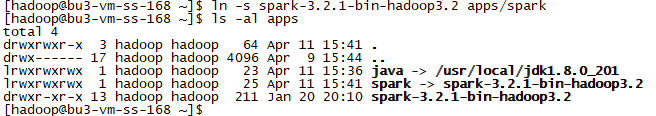
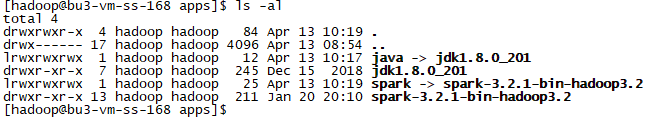
Spark Standalone 环境搭建

diff --git a/Spark基础入门/Labs/实验2 Spark Standalone模式搭建.md b/Spark基础入门/Labs/实验2 Spark Standalone模式搭建.md
@@ -8,15 +8,27 @@
 
 开始实验之前，请确保服务器上安装了Docker环境，创建了docker用户。
 
+## 环境规划
+
+本次实验采用3个Docker容器进行集群搭建，并且需要保证3个容器在同一个网络内。
+
+| 容器名称 | 容器IP |
+| -------- | ------ |
+| node1    |        |
+| node2    |        |
+| node3    |        |
+
 ## 任务1 Docker 镜像制作
 
 ### 步骤1 制作 Dockerfile 文件
+
+**以下步骤需要在宿主机上使用 `docker` 用户进行操作。**
 
 环境说明：
 
 * 使用centos作为底层系统
 * 需要配置节点之间的免密登录，所以需要安装ssh服务
-* 为了减小镜像的体积，镜像以及启动的容器内并不直接安装相关软件，而是将相关软件安装在宿主机，并将宿主机的安装路径挂载到容器，所以要求 `容器内的路径与宿主机的路径完全保持一致` 。因为宿主机的Spark使用 `hadoop` 用户安装在 `/home/hadoop/apps` 路径下，所以，Docker容器同样使用 `hadoop` 用户，并创建挂载点 `/home/hadoop/apps` 用于挂载宿主机的路径。
+* 为了减小镜像的体积，镜像以及启动的容器内并不直接安装相关软件，而是将相关软件安装在宿主机，并将宿主机的安装路径挂载到容器，而且通过挂载的方式，我们修改配置文件只需要在宿主机上修改就可以了，无需手动同步到所有节点，所以要求 `容器内的路径与宿主机的路径完全保持一致` 。因为宿主机的Spark使用 `hadoop` 用户安装在 `/home/hadoop/apps` 路径下，所以，Docker容器同样使用 `hadoop` 用户，并创建挂载点 `/home/hadoop/apps` 用于挂载宿主机的路径。
 * 容器内的部署用户使用 `hadoop` 用户，并配置节点间的免密登录。
 * 为用户配置好相关的环境变量
 * 创建挂载点 `~/apps` 用于挂载安装程序，创建预留挂载点 `~/logs` 用于存放日志文件、`~/works` 用于程序运行的工作目录、`~/softs` 用于存放一些需要提交到容器内部进行安装、运行的程序。
@@ -85,6 +97,8 @@ docker images | grep wux_labs
 
 ## 任务2 宿主机环境配置
 
+**以下步骤需要在宿主机上使用 `hadoop` 用户进行操作。**
+
 由于环境采用的是挂载宿主机文件的方式，所以宿主机的文件结构需要与容器内的结构匹配。
 
 我们首先看看宿主机当前的 `/home/hadoop/apps` 路径下的内容。
@@ -99,7 +113,7 @@ ls -al apps
 
 
 
-### 步骤1 创建java链接
+### 步骤1 创建 java 链接
 
 由于Docker镜像指定了
 
@@ -107,15 +121,16 @@ ls -al apps
 export JAVA_HOME=/home/hadoop/apps/java
 ```
 
-所以需要在宿主机的 `/home/hadoop/apps` 目录下创建 `java` 目录，并将 Java 8+ 安装在该目录下。由于宿主机本身就安装了 Java 8+，所以我们不需要重复安装，通过以下命令创建一个软链接指向Java安装路径即可。
+所以需要在宿主机的 `/home/hadoop/apps` 目录下创建 `java` 目录，并将 Java 8+ 安装在该目录下。这里我们不使用宿主机本身的 Java 环境，而是单独安装一个，因为挂载到容器的时候需要保证安装路径在容器内也存在，通过以下命令创建一个软链接指向Java安装路径即可。
 
 ```
+tar xzf softs/
 ln -s /usr/local/jdk1.8.0_201 apps/java
 ```
 
 ![image-20220411233723751](images/image-20220411233723751.png)
 
-### 步骤2 创建spark链接
+### 步骤2 创建 spark 链接
 
 由于Docker镜像指定了
 
@@ -126,10 +141,212 @@ export SPARK_HOME=/home/hadoop/apps/spark
 所以需要在宿主机的 `/home/hadoop/apps` 目录下创建 `spark` 目录，并将Spark程序安装在该目录下。同样，由于宿主机已经安装好了Spark，所以我们不需要重复安装，通过以下命令创建一个软链接指向Spark安装路径即可。
 
 ```
-ln -s /usr/local/jdk1.8.0_201 apps/java
+ln -s apps/spark-3.2.1-bin-hadoop3.2 apps/spark
 ```
 
 ![image-20220411234157327](images/image-20220411234157327.png)
 
-### 步骤3 配置Standalone配置文件
+### 步骤3 配置宿主机环境变量
 
+创建好软链接之后，在宿主机上也配置跟Docker容器相同的环境变量，这里配置到 `.bashrc` 文件中
+
+```
+export JAVA_HOME=/home/hadoop/apps/java
+export SPARK_HOME=/home/hadoop/apps/spark
+export PATH=$JAVA_HOME/bin:$SPARK_HOME/bin:$SPARK_HOME/sbin:$PATH
+```
+
+![image-20220413165515837](images/image-20220413165515837.png)
+
+配置好环境变量后，最好是重新登录一下，让环境变量生效。
+
+### 步骤4 配置 Standalone 配置文件
+
+切换到Spark的配置目录conf下。
+
+```
+cd /home/hadoop/apps/spark/conf
+
+ls -al
+```
+
+![image-20220413170636567](images/image-20220413170636567.png)
+
+#### 配置 workers
+
+workers这个文件就是指示了当前Spark Standalone环境下，有哪些worker，这里我们将规划的3个Docker容器都添加进去。
+
+```
+echo "node1" > workers
+echo "node2" >> workers
+echo "node3" >> workers
+
+ls -al
+
+cat workers
+```
+
+![image-20220413170759522](images/image-20220413170759522.png)
+
+#### 配置 spark-env.sh
+
+可以通过复制模板文件的方式
+
+```
+cp spark-env.sh.template spark-env.sh
+```
+
+也可以不复制模板文件而直接编辑
+
+````
+vi spark-env.sh
+````
+
+将下面的内容追加到文件末尾（以下是比较简单的基本配置，如果需要配置其他信息，酌情追加配置即可）
+
+```
+# 设置 Java 安装目录
+JAVA_HOME=/home/hadoop/apps/java
+
+# 指定 Spark Master 的 IP 和提交任务的通信端口
+# 告知 Spark Master运行在哪个机器上
+SPARK_MASTER_HOST=node1
+# 告知 Spark Master 的通讯端口
+SPARK_MASTER_PORT=7077
+# 告知 Spark Master 的 WebUI 端口
+SPARK_MASTER_WEBUI_PORT=8080
+
+# 指定 Spark 的日志存放路径
+SPARK_LOG_DIR=/home/hadoop/logs/spark
+# 指定 Spark 的工作路径
+SPARK_WORKER_DIR=/home/hadoop/works/spark
+```
+
+![image-20220413172104717](images/image-20220413172104717.png)
+
+## 任务3 启动 Spark 集群
+
+**以下步骤需要在宿主机上使用 `docker` 用户进行操作。**
+
+配置好以上内容，就可以准备启动集群了。
+
+### 步骤1 创建 docker-compose 文件
+
+我们通过 docker-compose 来管理容器，所以先创建一个 docker-compose 文件`SparkStandalone.yml`。
+
+```
+version: '3.5'
+
+services:
+  node1:
+    image: wux_labs/spark:3.2.1
+    container_name: node1
+    restart: always
+    volumes:
+      - /home/hadoop/apps:/home/hadoop/apps # 磁盘挂载是只读的
+      - node1_logs:/home/hadoop/logs        # 由于要写日志，所以需要用数据卷，可写
+      - node1_works:/home/hadoop/works      # 工作目录也需要可写，所以使用数据卷
+    ports:
+      - 7077:7077
+      - 8080:8080
+    networks:
+      hadoop_networks_24:
+        ipv4_address: 172.24.0.101
+
+  node2:
+    image: wux_labs/spark:3.2.1
+    container_name: node2
+    restart: always
+    volumes:
+      - /home/hadoop/apps:/home/hadoop/apps
+      - node2_logs:/home/hadoop/logs
+      - node2_works:/home/hadoop/works
+    networks:
+      hadoop_networks_24:
+        ipv4_address: 172.24.0.102
+
+  node3:
+    image: wux_labs/spark:3.2.1
+    container_name: node3
+    restart: always
+    volumes:
+      - /home/hadoop/apps:/home/hadoop/apps
+      - node3_logs:/home/hadoop/logs
+      - node3_works:/home/hadoop/works
+    networks:
+      hadoop_networks_24:
+        ipv4_address: 172.24.0.103
+
+networks:
+  hadoop_networks_24:
+    driver: bridge
+    ipam:
+      config:
+        - subnet: 172.24.0.0/24
+
+volumes:
+  node1_logs:
+    driver: local
+  node1_works:
+    driver: local
+  node2_logs:
+    driver: local
+  node2_works:
+    driver: local
+  node3_logs:
+    driver: local
+  node3_works:
+    driver: local
+```
+
+### 步骤2 启动容器
+
+```
+docker-compose -f SparkStandalone.yml up -d
+
+docker ps
+```
+
+![image-20220413180306755](images/image-20220413180306755.png)
+
+这样我们就启动了3个Docker容器，但是到目前为止，Spark集群还未启动。
+
+### 步骤3 启动 Spark 集群
+
+Docker容器启动成功，此时我们需要使用 `hadoop` 用户进入到 node1 容器的内部，正式启动 Spark 集群。
+
+```
+docker exec -it -u hadoop node1 /bin/bash
+```
+
+![image-20220413180616521](images/image-20220413180616521.png)
+
+然后执行启动命令。
+
+```
+start-all.sh
+```
+
+![image-20220413183055498](images/image-20220413183055498.png)
+
+这样我们就完成了Spark集群的启动。
+
+来看看现在的进程。
+
+```
+jps
+```
+
+![image-20220413183203867](images/image-20220413183203867.png)
+
+我们也可以看看其他节点上的进程。
+
+![image-20220413183950467](images/image-20220413183950467.png)
+
+## 任务4 测试 Spark Standalone 模式
+
+### 步骤1 测试 Spark Web UI
+
+我们在浏览器中访问我们配置的端口，就可以打开 Web UI 了。
+
+![image-20220413184204366](images/image-20220413184204366.png)
